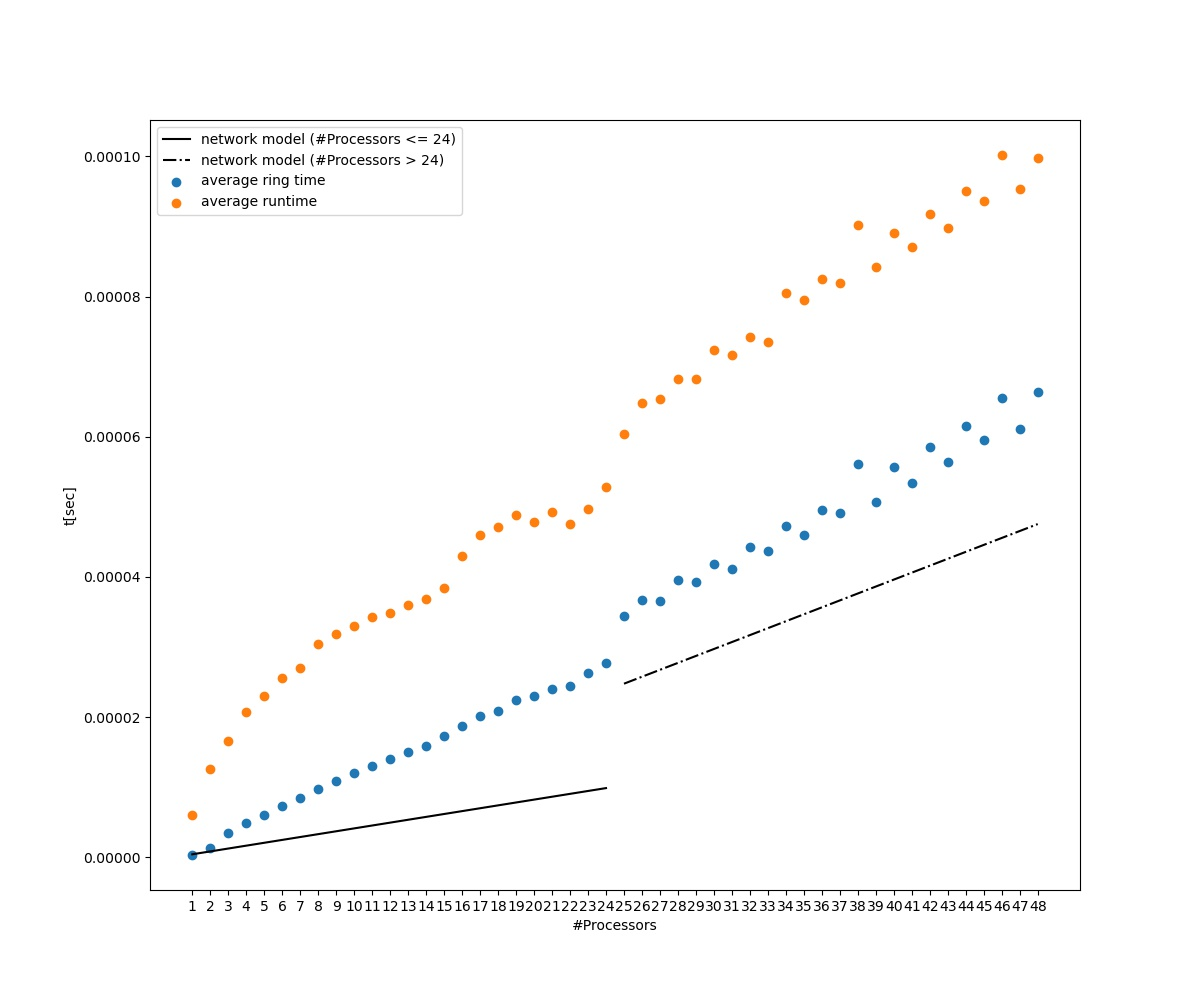
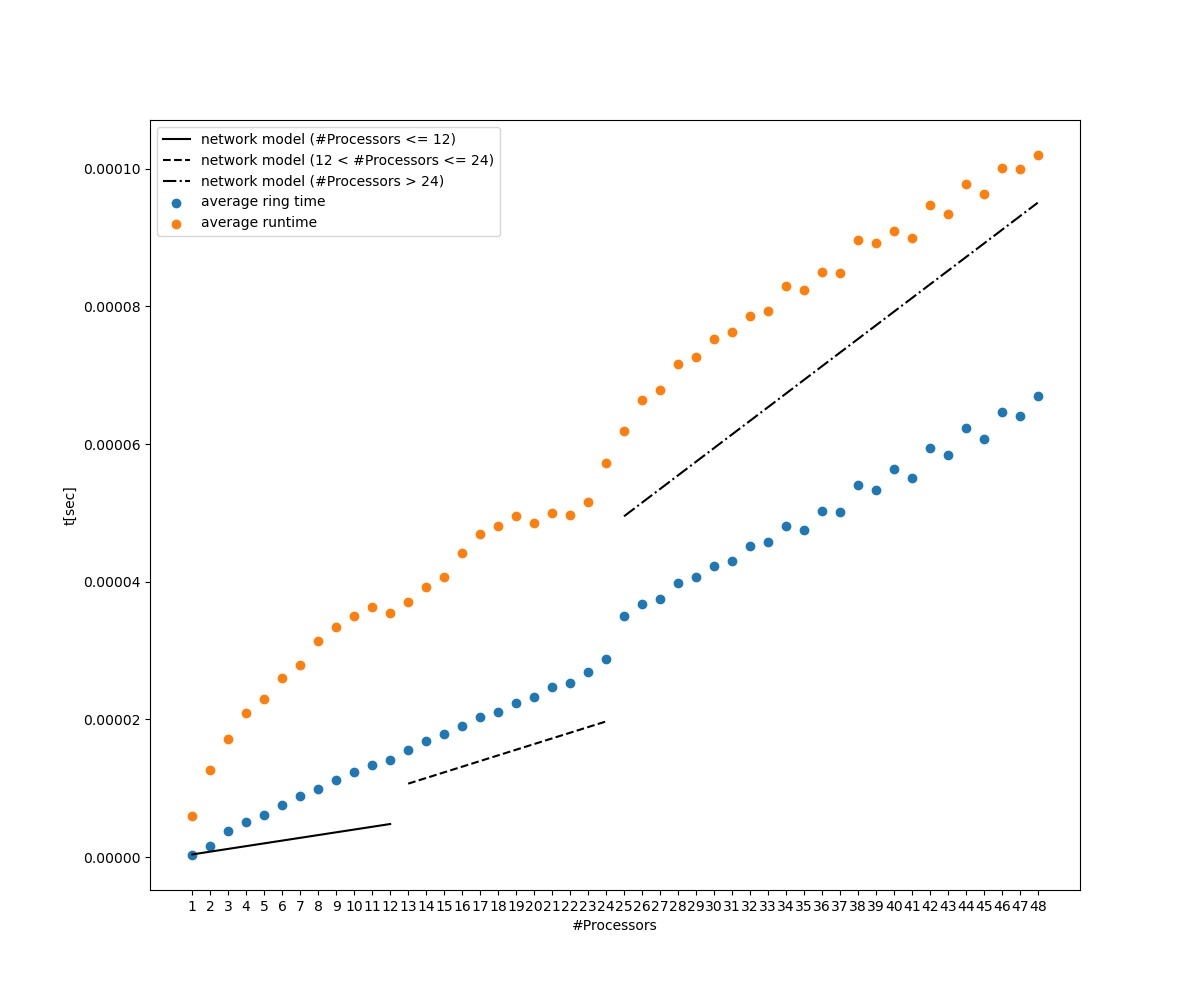
process data

diff --git a/assigment1/section1/exercise1/plot_times.py b/assigment1/section1/exercise1/plot_times.py
@@ -36,18 +36,25 @@ if __name__ == '__main__':
     plt.xlabel("#Processors")
     plt.ylabel("t[sec]")
 
-    x = np.arange(1, 25)
+    x = np.arange(1, 13)
+    c = 0.2 / 1000000
+    bandwidth = 6220
+    message_size = 4
+    y = [T_comm(message_size, c, bandwidth, num_proc) * 2 for num_proc in x]
+    plt.plot(x, y, 'k-', label="network model (#Processors <= 12)")
+
+    x = np.arange(13, 25)
     c = 0.41 / 1000000
     bandwidth = 5460
     message_size = 4
-    y = [T_comm(message_size, c, bandwidth, num_proc) for num_proc in x]
-    plt.plot(x, y, 'k-', label="network model (#Processors <= 24)")
+    y = [T_comm(message_size, c, bandwidth, num_proc) * 2 for num_proc in x]
+    plt.plot(x, y, 'k--', label="network model (12 < #Processors <= 24)")
 
     x = np.arange(25, 49)
     c = 0.99 / 1000000
     bandwidth = 12060
     message_size = 4
-    y = [T_comm(message_size, c, bandwidth, num_proc) for num_proc in x]
+    y = [T_comm(message_size, c, bandwidth, num_proc) * 2 for num_proc in x]
     plt.plot(x, y, 'k-.', label="network model (#Processors > 24)")
 
     plt.legend(loc="upper left")
